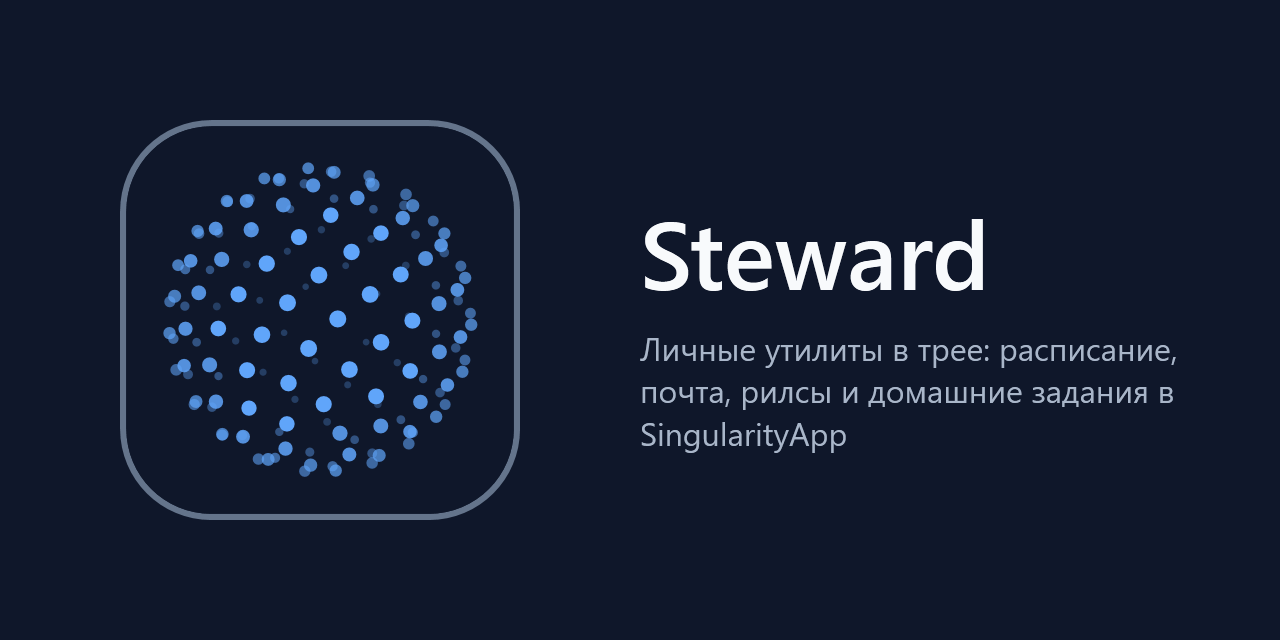
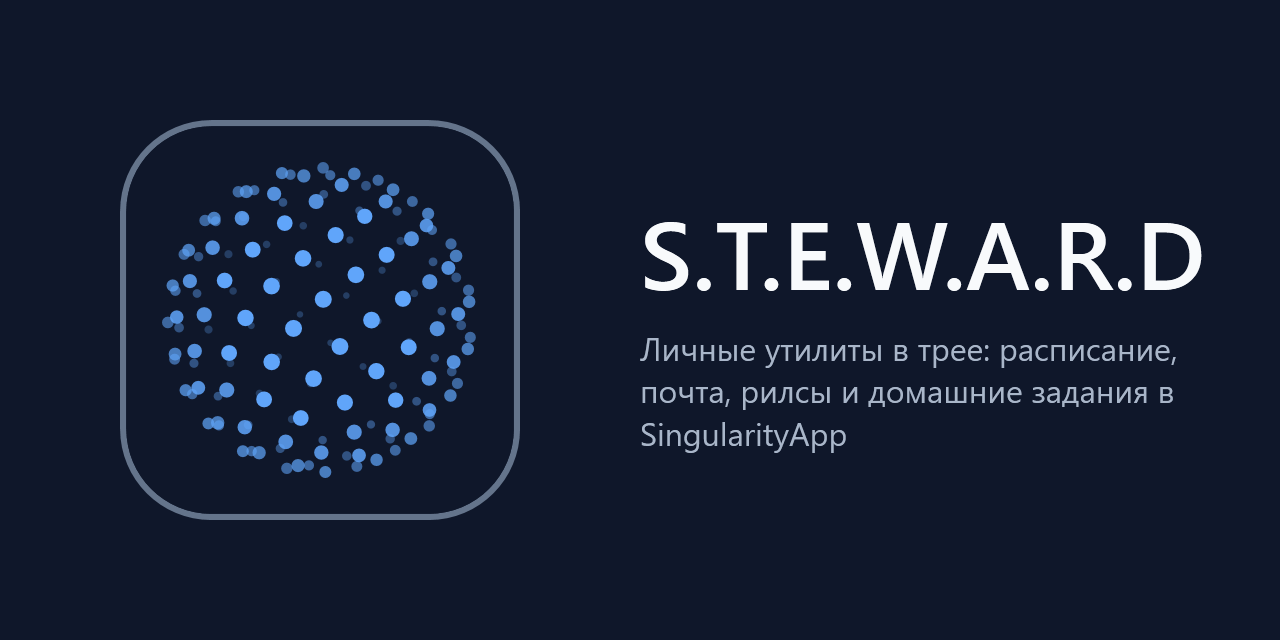
Правки интерфейса: ширина числа, пропуск в меню трея, плавное завершение сферы, выделение причины ошибки, имя S.T.E.W.A.R.D, без описаний под заголовками

Changed region(s): [[0.125, 0.25, 0.375, 0.75], [0.5312, 0.3438, 0.9375, 0.4688]]

diff --git a/Steward/Views/MainWindow.xaml b/Steward/Views/MainWindow.xaml
@@ -46,7 +46,7 @@
                     <ColumnDefinition Width="Auto"/>
                 </Grid.ColumnDefinitions>
                 <StackPanel>
-                    <TextBlock Text="Steward" Foreground="{StaticResource TextBrush}" FontSize="{StaticResource FontSizeTitle}" FontWeight="SemiBold"/>
+                    <TextBlock Text="S.T.E.W.A.R.D" Foreground="{StaticResource TextBrush}" FontSize="{StaticResource FontSizeTitle}" FontWeight="SemiBold"/>
                     <TextBlock Text="{Binding Subtitle}" Foreground="{StaticResource MutedBrush}" FontSize="{StaticResource FontSizeBody}" Margin="0,2,0,0"/>
                 </StackPanel>
                 <Border Grid.Column="1" Style="{StaticResource ToneBadge}" Padding="10,4,16,4" VerticalAlignment="Center" Margin="0,0,12,0">
@@ -90,7 +90,6 @@
                         <ScrollViewer VerticalScrollBarVisibility="Auto" HorizontalScrollBarVisibility="Disabled">
                             <StackPanel Margin="0,0,12,0">
                                 <TextBlock Text="Задачи" Style="{StaticResource PageTitle}"/>
-                                <TextBlock Text="Всё, что приложение запускает или за чем следит. Статус обновляется сам." Style="{StaticResource PageHint}" Margin="4,0,0,16"/>
                                 <Border Style="{StaticResource Card}" Background="{StaticResource AttentionSurfaceBrush}"
                                         Visibility="{Binding HasRegistryErrors, Converter={StaticResource BoolToVisibility}}">
                                     <StackPanel>
@@ -114,7 +113,7 @@
                                                             <TextBlock x:Name="Name" Text="{Binding Name}" Foreground="{StaticResource TextBrush}" FontSize="{StaticResource FontSizeTitle}" FontWeight="SemiBold"/>
                                                             <TextBlock Text="{Binding Headline}" Foreground="{StaticResource MutedBrush}" FontSize="{StaticResource FontSizeBodyLarge}" Margin="12,2,0,0"/>
                                                         </StackPanel>
-                                                        <TextBlock Text="{Binding Detail}" Foreground="{StaticResource MutedBrush}" FontSize="{StaticResource FontSizeBody}" TextWrapping="Wrap" Margin="0,8,0,0"/>
+                                                        <TextBlock x:Name="Reason" Text="{Binding Detail}" Foreground="{StaticResource MutedBrush}" FontSize="{StaticResource FontSizeBody}" TextWrapping="Wrap" Margin="0,8,0,0"/>
                                                     </StackPanel>
                                                     <Button x:Name="Run" Grid.Column="2" Content="Запустить" Style="{StaticResource ActionButton}" Margin="12,0,0,0"
                                                             VerticalAlignment="Top" Command="{Binding RunCommand}" Visibility="Collapsed"/>
@@ -129,6 +128,7 @@
                                                 </DataTrigger>
                                                 <DataTrigger Binding="{Binding Tone}" Value="{x:Static ui:PanelToneEnum.Problem}">
                                                     <Setter TargetName="Card" Property="Background" Value="{StaticResource DangerSurfaceBrush}"/>
+                                                    <Setter TargetName="Reason" Property="Foreground" Value="{StaticResource DangerBrush}"/>
                                                 </DataTrigger>
                                             </DataTemplate.Triggers>
                                         </DataTemplate>
@@ -152,7 +152,6 @@
                         <ScrollViewer VerticalScrollBarVisibility="Auto">
                             <StackPanel>
                                 <TextBlock Text="Идеи" Style="{StaticResource PageTitle}"/>
-                                <TextBlock Text="Разобранные идеи из сохранённых рилсов, которые ждут твоего решения." Style="{StaticResource PageHint}" Margin="4,0,0,16"/>
                                 <Border Style="{StaticResource Card}" Margin="0,0,0,12" Visibility="{Binding IsReelsBusy, Converter={StaticResource BoolToVisibility}}">
                                     <StackPanel Orientation="Horizontal">
                                         <ctl:ActivityOrb Width="26" Height="26" Kind="Composing" Foreground="{StaticResource WorkingBrush}" Margin="-4,-2,12,-2"/>
@@ -203,11 +202,9 @@
                         <ScrollViewer VerticalScrollBarVisibility="Auto">
                             <StackPanel>
                             <TextBlock Text="Домашние задания" Style="{StaticResource PageTitle}"/>
-                            <TextBlock Text="Задания, которые агент нашёл в расшифровках занятий. Работу сдаёшь всегда ты сам." Style="{StaticResource PageHint}" Margin="4,0,0,16"/>
                             <ToggleButton IsChecked="{Binding IsFormatsOpen, Mode=TwoWay}" Style="{StaticResource SectionToggle}">
                                 <StackPanel>
                                     <TextBlock Text="Форматы заданий" Foreground="{StaticResource TextBrush}" FontSize="{StaticResource FontSizeTitle}" FontWeight="SemiBold"/>
-                                    <TextBlock Text="В каком виде готовить ДЗ по каждому занятию" Style="{StaticResource PageHint}" Margin="0,2,0,0"/>
                                 </StackPanel>
                             </ToggleButton>
                             <ctl:CollapsibleBody Style="{StaticResource CollapsibleBody}" IsOpen="{Binding IsFormatsOpen}">
@@ -274,7 +271,6 @@
                                     </Grid.ColumnDefinitions>
                                     <StackPanel>
                                         <TextBlock Text="Журнал запусков" Style="{StaticResource PageTitle}"/>
-                                        <TextBlock Text="Что приложение запускало и чем это закончилось. Последние сто записей." Style="{StaticResource PageHint}" Margin="4,0,0,16"/>
                                     </StackPanel>
                                     <StackPanel Grid.Column="1" Orientation="Horizontal" VerticalAlignment="Top" Margin="16,0,0,0">
                                         <Button Content="Сверки расписания" Style="{StaticResource ActionButton}" Command="{Binding OpenScheduleHistoryCommand}"/>
@@ -303,7 +299,7 @@
                                                         <TextBlock Text="{Binding Facts}" Style="{StaticResource TextCaption}" Margin="0,4,0,0"/>
                                                         <TextBlock Text="{Binding Summary}" Style="{StaticResource TextSecondary}" Margin="0,8,0,0"
                                                                    Visibility="{Binding HasSummary, Converter={StaticResource BoolToVisibility}}"/>
-                                                        <TextBlock Text="{Binding Detail}" Style="{StaticResource TextBody}" Margin="0,8,0,0"
+                                                        <TextBlock x:Name="Reason" Text="{Binding Detail}" Style="{StaticResource TextBody}" Margin="0,8,0,0"
                                                                    Visibility="{Binding HasDetail, Converter={StaticResource BoolToVisibility}}"/>
                                                         <ItemsControl ItemsSource="{Binding OutputLines}" Margin="0,8,0,0"
                                                                       Visibility="{Binding HasOutput, Converter={StaticResource BoolToVisibility}}">
@@ -330,6 +326,7 @@
                                             <DataTemplate.Triggers>
                                                 <DataTrigger Binding="{Binding Tone}" Value="{x:Static ui:PanelToneEnum.Problem}">
                                                     <Setter TargetName="Row" Property="Background" Value="{StaticResource DangerSurfaceBrush}"/>
+                                                    <Setter TargetName="Reason" Property="Foreground" Value="{StaticResource DangerBrush}"/>
                                                 </DataTrigger>
                                             </DataTemplate.Triggers>                                        </DataTemplate>
                                     </ItemsControl.ItemTemplate>

diff --git a/Steward/Views/SettingsWindow.xaml b/Steward/Views/SettingsWindow.xaml
@@ -27,7 +27,6 @@
             <Grid Margin="24,20,20,12" MouseLeftButtonDown="Header_OnDrag" Background="Transparent">
                 <StackPanel>
                     <TextBlock Text="Настройки" Style="{StaticResource TextHeadline}"/>
-                    <TextBlock Text="Параметры расписания и перезапуск сервиса" Style="{StaticResource TextSecondary}" Margin="0,4,0,0" TextWrapping="Wrap"/>
                 </StackPanel>
                 <Button Content="Закрыть" Style="{StaticResource GhostButton}" HorizontalAlignment="Right" VerticalAlignment="Top" Click="Close_OnClick"/>
             </Grid>
@@ -38,12 +37,10 @@
                             <TextBlock Text="{Binding SettingsMessage}" Foreground="{StaticResource MutedBrush}" FontSize="{StaticResource FontSizeBody}" TextWrapping="Wrap" Margin="0,4,0,4"/>
 
                             <TextBlock Text="Интервал сверки" Style="{StaticResource FieldTitle}"/>
-                            <TextBlock Style="{StaticResource Hint}"
-                                       Text="Сколько минут ждать между проверками таблицы. Ползунок и число — одно и то же значение, от 1 до 180. После сохранения контейнер перезапускается и начинает ходить с новым интервалом."/>
                             <Grid Margin="0,8,0,0">
                                 <Grid.ColumnDefinitions>
                                     <ColumnDefinition Width="*"/>
-                                    <ColumnDefinition Width="72"/>
+                                    <ColumnDefinition Width="96"/>
                                 </Grid.ColumnDefinitions>
                                 <controls:IntervalBar VerticalAlignment="Center" Margin="0,0,12,0"
                                                    Value="{Binding IntervalMinutes, Mode=TwoWay, UpdateSourceTrigger=PropertyChanged}"/>
@@ -52,33 +49,21 @@
                             </Grid>
 
                             <TextBlock Text="Название проекта" Style="{StaticResource FieldTitle}"/>
-                            <TextBlock Style="{StaticResource Hint}"
-                                       Text="Имя проекта в Singularity, куда записываются занятия. Сервис ищет проект с этим названием и создаёт его, если такого нет."/>
                             <TextBox Style="{StaticResource Field}" Text="{Binding ProjectTitle, UpdateSourceTrigger=PropertyChanged}"/>
 
                             <TextBlock Text="Колонка группы" Style="{StaticResource FieldTitle}"/>
-                            <TextBlock Style="{StaticResource Hint}"
-                                       Text="Заголовок столбца на листе, из которого берутся ваши пары. Пишите его так же, как в таблице, например РКИ-2-26."/>
                             <TextBox Style="{StaticResource Field}" Text="{Binding GroupColumn, UpdateSourceTrigger=PropertyChanged}"/>
 
                             <TextBlock Text="Часовой пояс таблицы" Style="{StaticResource FieldTitle}"/>
-                            <TextBlock Style="{StaticResource Hint}"
-                                       Text="Пояс, в котором в таблице указано время начала пар. Для этой таблицы оставьте Europe/Moscow: время в ней московское, даже если на компьютере другой пояс."/>
                             <TextBox Style="{StaticResource Field}" Text="{Binding TimeZone, UpdateSourceTrigger=PropertyChanged}"/>
 
                             <TextBlock Text="Идентификатор таблицы" Style="{StaticResource FieldTitle}"/>
-                            <TextBlock Style="{StaticResource Hint}"
-                                       Text="Часть ссылки на Google Таблицу между /d/ и /edit. По ней сервис скачивает расписание."/>
                             <TextBox Style="{StaticResource Field}" Text="{Binding SpreadsheetId, UpdateSourceTrigger=PropertyChanged}"/>
 
                             <TextBlock Text="Номер листа" Style="{StaticResource FieldTitle}"/>
-                            <TextBlock Style="{StaticResource Hint}"
-                                       Text="Число gid из адреса вкладки. Это не название листа, а номер вкладки внутри файла."/>
                             <TextBox Style="{StaticResource Field}" Text="{Binding SheetGid, UpdateSourceTrigger=PropertyChanged}"/>
 
                             <TextBlock Text="Токен Singularity" Style="{StaticResource FieldTitle}"/>
-                            <TextBlock Style="{StaticResource Hint}"
-                                       Text="Ключ, по которому сервис входит в ваш аккаунт. Здесь уже лежит значение из файла настроек, на экране оно закрыто точками. Если выпустите новый ключ, вставьте его вместо текущего и сохраните."/>
                             <PasswordBox Style="{StaticResource SecretField}"
                                          behaviors:PasswordBinding.Password="{Binding Token, Mode=TwoWay, UpdateSourceTrigger=PropertyChanged}"/>
                         </StackPanel>

diff --git a/Steward/Views/DesignWindow.xaml b/Steward/Views/DesignWindow.xaml
@@ -33,8 +33,7 @@
 
     <Border Style="{StaticResource WindowChrome}">
         <StackPanel Margin="24,16,24,24">
-            <TextBlock Text="Дизайн-система Steward" Style="{StaticResource TextHeadline}"/>
-            <TextBlock Text="Все цвета, размеры и состояния приложения. Цвета заданы в Themes/Colors.xaml, всё остальное берёт их по имени." Style="{StaticResource TextSecondary}" Margin="0,4,0,0"/>
+            <TextBlock Text="Дизайн-система S.T.E.W.A.R.D" Style="{StaticResource TextHeadline}"/>
 
             <Grid>
                 <Grid.ColumnDefinitions>
@@ -59,7 +58,6 @@
             </StackPanel>
 
             <TextBlock Text="Сферы состояния" Style="{StaticResource Section}"/>
-            <TextBlock Text="Сфера из точек вместо точки-индикатора: вид говорит о состоянии, цвет берётся из палитры состояний. Окончание процесса проигрывает волну от сферы." Style="{StaticResource TextSecondary}" TextWrapping="Wrap" Margin="0,0,0,8"/>
             <WrapPanel>
                 <StackPanel Width="88" Margin="0,0,8,12"><ctl:ActivityOrb Width="56" Height="56" Kind="Alive" Foreground="{StaticResource OkBrush}"/><TextBlock Text="Работает" Style="{StaticResource TextCaption}" TextAlignment="Center" TextWrapping="Wrap" HorizontalAlignment="Center"/></StackPanel>
                 <StackPanel Width="88" Margin="0,0,8,12"><ctl:ActivityOrb Width="56" Height="56" Kind="Waiting" Foreground="{StaticResource OkBrush}"/><TextBlock Text="Выполнено, ждёт срока" Style="{StaticResource TextCaption}" TextAlignment="Center" TextWrapping="Wrap" HorizontalAlignment="Center"/></StackPanel>

diff --git a/Steward/Views/TrayMenuWindow.xaml b/Steward/Views/TrayMenuWindow.xaml
@@ -4,7 +4,7 @@
         xmlns:views="clr-namespace:Steward.Views"
         xmlns:ctl="clr-namespace:Steward.Controls"
         xmlns:ui="clr-namespace:Steward.Models"
-        Title="Steward"
+        Title="S.T.E.W.A.R.D"
         Width="500"
         SizeToContent="Height"
         WindowStyle="None"
@@ -67,7 +67,7 @@
                 </ItemsControl>
             </Border>
 
-            <Border Height="1" Background="{StaticResource LineBrush}" Margin="0,14,0,6"/>
+            <Border Height="1" Background="{StaticResource LineBrush}" Margin="0,12,0,0"/>
 
             <ctl:GooeyCluster x:Name="Cluster" Style="{StaticResource Cluster}"/>
         </StackPanel>

diff --git a/Steward/Views/ConfirmWindow.xaml b/Steward/Views/ConfirmWindow.xaml
@@ -1,7 +1,7 @@
 <Window x:Class="Steward.Views.ConfirmWindow"
         xmlns="http://schemas.microsoft.com/winfx/2006/xaml/presentation"
         xmlns:x="http://schemas.microsoft.com/winfx/2006/xaml"
-        Title="Steward"
+        Title="S.T.E.W.A.R.D"
         Width="440"
         SizeToContent="Height"
         WindowStyle="None"

diff --git a/Steward/Shell/AppIconWriter.cs b/Steward/Shell/AppIconWriter.cs
@@ -138,7 +138,7 @@ public static class AppIconWriter
         grid.Children.Add(tile);
 
         var text = new StackPanel { VerticalAlignment = VerticalAlignment.Center, Margin = new Thickness(0, 0, 40, 0) };
-        text.Children.Add(new TextBlock { Text = "Steward", FontFamily = new System.Windows.Media.FontFamily("Segoe UI"), FontWeight = FontWeights.SemiBold, FontSize = 96, Foreground = (Brush)resources["TextBrush"] });
+        text.Children.Add(new TextBlock { Text = "S.T.E.W.A.R.D", FontFamily = new System.Windows.Media.FontFamily("Segoe UI"), FontWeight = FontWeights.SemiBold, FontSize = 96, Foreground = (Brush)resources["TextBrush"] });
         text.Children.Add(new TextBlock { Text = "Личные утилиты в трее: расписание, почта, рилсы и домашние задания в SingularityApp", FontFamily = new System.Windows.Media.FontFamily("Segoe UI"), FontSize = 32, Foreground = (Brush)resources["MutedBrush"], TextWrapping = TextWrapping.Wrap, Margin = new Thickness(0, 12, 0, 0) });
         Grid.SetColumn(text, 1);
         grid.Children.Add(text);

diff --git a/Steward/Controls/ActivityOrb.cs b/Steward/Controls/ActivityOrb.cs
@@ -478,9 +478,9 @@ public sealed class ActivityOrb : FrameworkElement
         var share = age / DONE_SECONDS;
         var wave = Math.Clamp(age / 1.2, 0, 1);
         var calm = ColorOf(Foreground);
-        var mixed = Mix(done, calm, Math.Clamp((age - 0.9) / 1, 0, 1));
+        var mixed = Mix(done, calm, Ease(Math.Clamp((age - 0.4) / (DONE_SECONDS - 0.4), 0, 1)));
 
-        DrawSphere(context, center, radius * (1 + 0.1 * Math.Sin(Math.Min(share * 2, 1) * Math.PI)), seconds, ActivityKindEnum.Calm, mixed, 1);
+        DrawSphere(context, center, radius * (1 + 0.1 * Math.Sin(Math.Min(share * 2, 1) * Math.PI)), seconds, Kind, mixed, 1, Math.Max(1, Stride), DotScale);
         if (wave >= 1)
             return;
 

diff --git a/Steward/ViewModels/SettingsViewModel.cs b/Steward/ViewModels/SettingsViewModel.cs
@@ -29,7 +29,7 @@ public sealed class SettingsViewModel : Bindable
     /// <summary>
     /// Сообщение над полями настроек
     /// </summary>
-    private string _settingsMessage = "Здесь параметры из файла настроек. Они уже подставлены";
+    private string _settingsMessage = string.Empty;
 
     /// <summary>
     /// Название проекта

diff --git a/Steward/Controls/GooeyCluster.cs b/Steward/Controls/GooeyCluster.cs
@@ -53,7 +53,7 @@ public sealed class GooeyCluster : FrameworkElement
     /// <summary>
     /// Высота полосы подписи над кнопками
     /// </summary>
-    private const double LABEL_BAND = 30;
+    private const double LABEL_BAND = 20;
 
     /// <summary>
     /// Жёсткость пружины: чем больше, тем быстрее кнопка выезжает

diff --git a/README.md b/README.md
@@ -1,8 +1,8 @@
 <p align="center">
-  <img src="docs/logo.png" alt="Steward" width="128">
+  <img src="docs/logo.png" alt="S.T.E.W.A.R.D" width="128">
 </p>
 
-# Steward
+# S.T.E.W.A.R.D
 
 Личные утилиты, которые заводят задачи в SingularityApp, и приложение в трее Windows, которое запускает их и показывает статус каждой.
 
@@ -13,7 +13,7 @@
 | [`Steward.Schedule/`](Steward.Schedule/README.md) | Переносит расписание из Google Таблицы в задачи. Работает в Docker. Библиотеки: `Steward.Schedule.Core` и `Steward.Schedule.Shared` |
 | [`Steward.Mail/`](Steward.Mail/README.md) | Проверяет учебную почту и ставит задачи на письма, которые требуют ответа или содержат отзыв |
 | [`Steward.Homework.Tasks/`](Steward.Homework.Tasks/README.md) | Создаёт задачи SingularityApp по заданиям, которые агент нашёл в расшифровках |
-| [`Steward.Homework/`](Steward.Homework/README.md) | Занятия и выбранный для каждого формат ДЗ (Word, презентация, текст, код, не готовить). Выбор делается в окне «Форматы ДЗ» на странице «ДЗ» |
+| [`Steward.Homework/`](Steward.Homework/README.md) | Занятия и выбранный для каждого формат ДЗ (Word, презентация, текст, код, не готовить). Выбор делается в блоке «Форматы заданий» на странице «Домашние задания» |
 | [`Steward.Reels/`](Steward.Reels/README.md) | Бот в Telegram: рилсы превращаются в идеи на странице «Идеи». Идеи хранит библиотека `Steward.Ideas` |
 | [`Whisper/`](Whisper/README.md) | Локальная расшифровка речи из видео, пока для рилсов (Python) |
 | `tests/` | Тесты: `Steward.Tests`, `Steward.Status.Tests`, `Steward.Schedule.Tests`, `Steward.Mail.Tests`, `Steward.Reels.Tests` |

diff --git a/Steward/README.md b/Steward/README.md
@@ -1,4 +1,4 @@
-# Steward
+# S.T.E.W.A.R.D
 
 Приложение в трее Windows. Запускает задачи из [`config/jobs.json`](../config/jobs.json) и показывает статус каждой. Как задачи запускаются и в каком формате пишут статус, описано в [`Steward.Status`](../Steward.Status/README.md).
 
